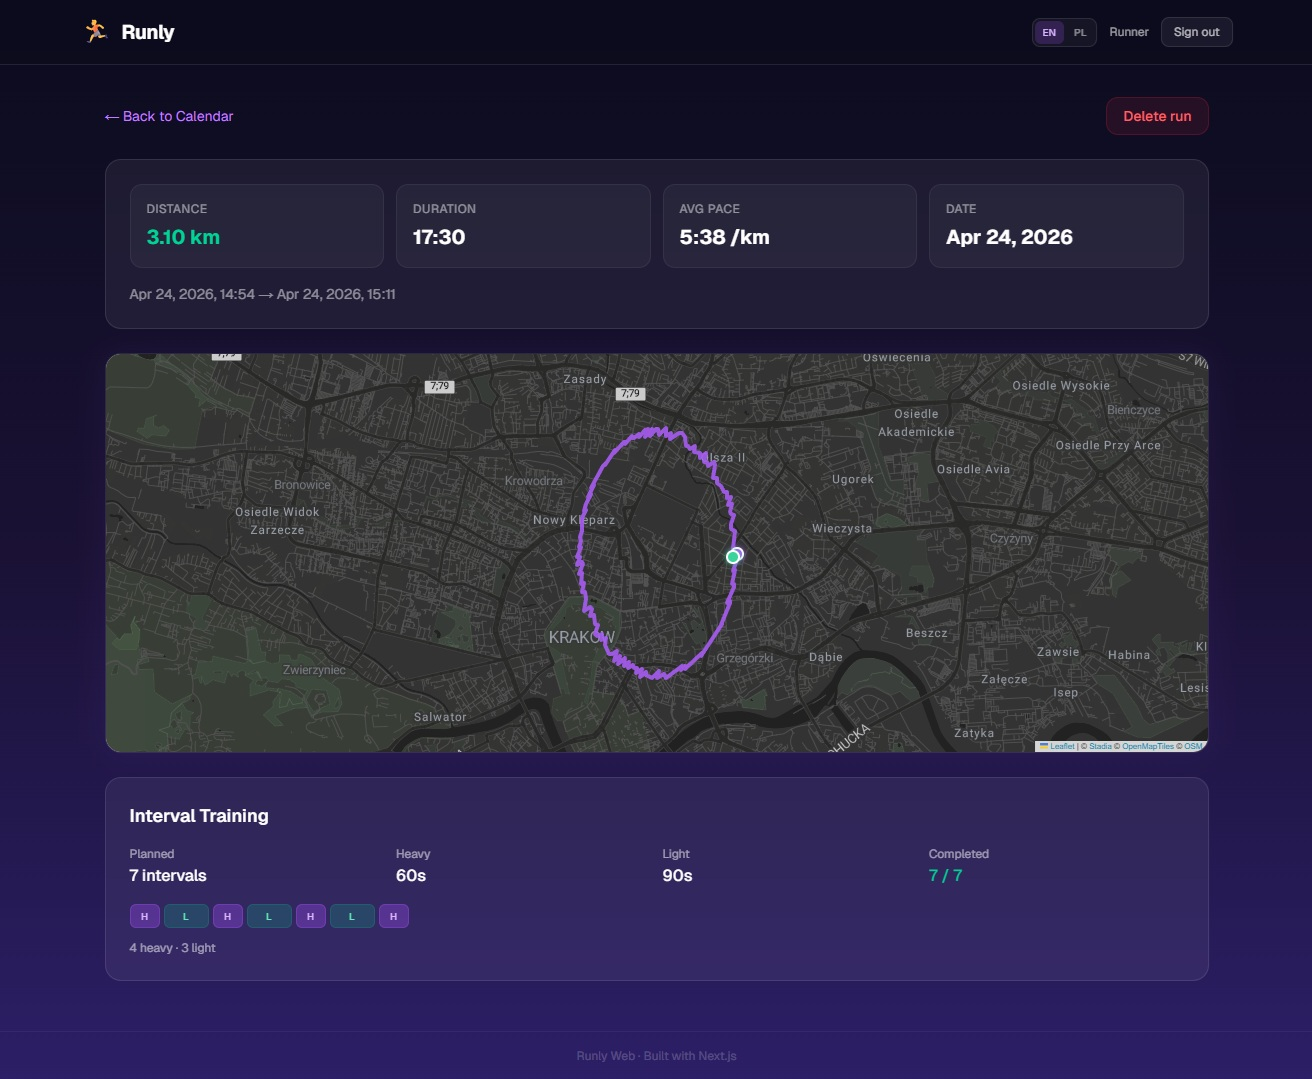
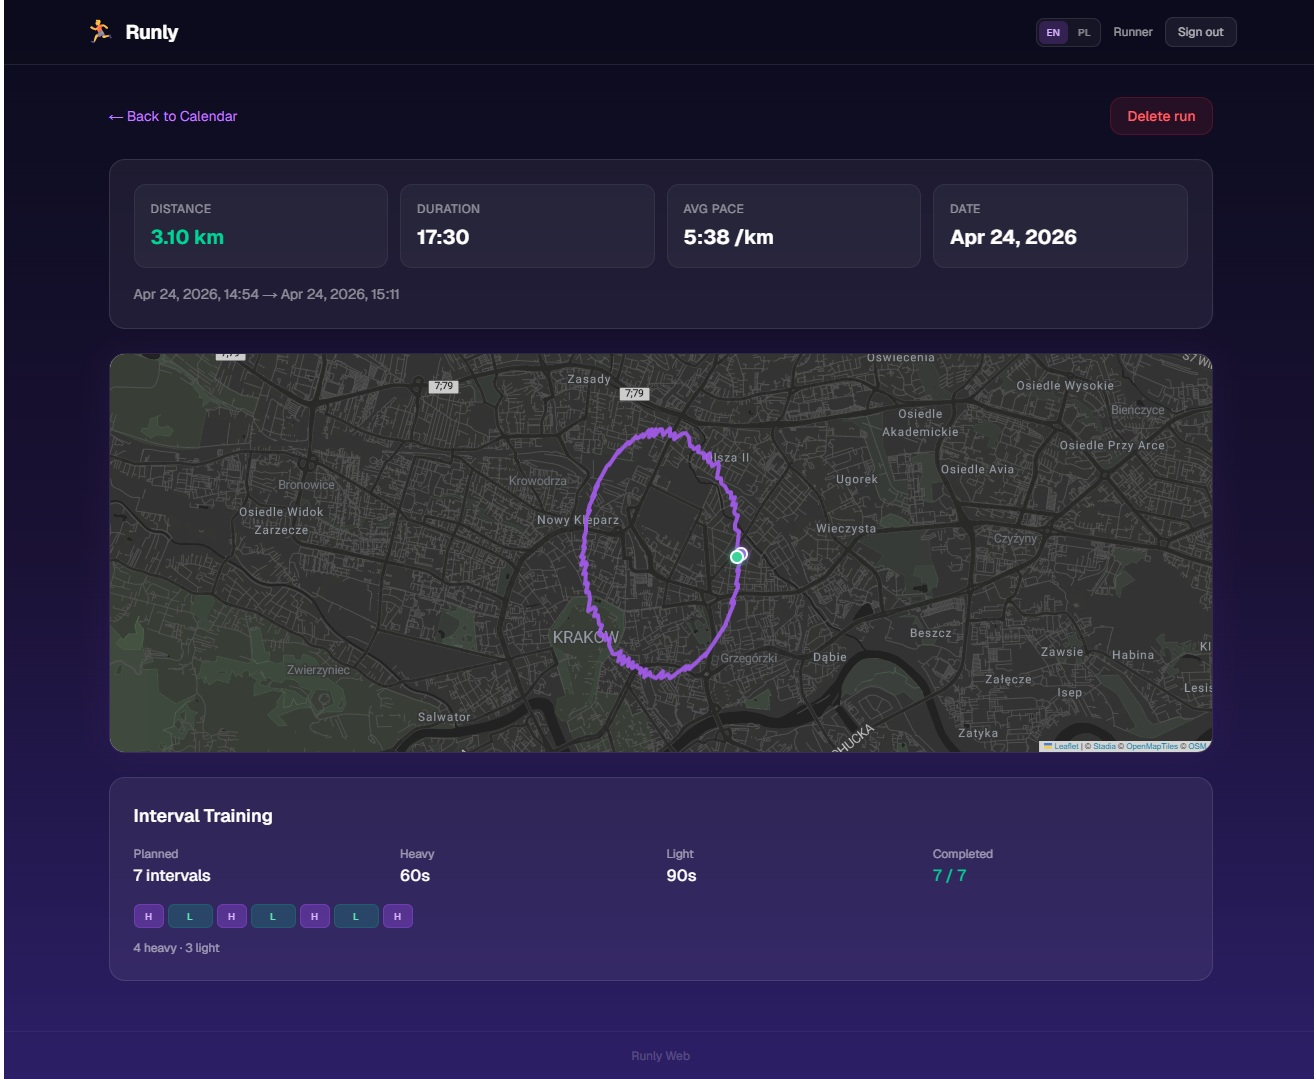
format, update docs

diff --git a/src/features/runs/components/RouteMap.tsx b/src/features/runs/components/RouteMap.tsx
@@ -62,7 +62,7 @@ export const RouteMap: FC<RouteMapProps> = ({ path }) => {
         className="w-full h-full"
         zoomControl={false}
       >
-        {/* Localhost lighter version  */}
+        {/* Localhost lighter version */}
         {/*<TileLayer*/}
         {/*  url="https://tiles.stadiamaps.com/tiles/alidade_smooth_dark/{z}/{x}/{y}{r}.png"*/}
         {/*  attribution='&copy; <a href="https://stadiamaps.com/">Stadia</a> &copy; <a href="https://openmaptiles.org/">OpenMapTiles</a> &copy; <a href="https://www.openstreetmap.org/copyright">OSM</a>'*/}
@@ -71,10 +71,7 @@ export const RouteMap: FC<RouteMapProps> = ({ path }) => {
           url="https://{s}.basemaps.cartocdn.com/dark_nolabels/{z}/{x}/{y}{r}.png"
           attribution='&copy; <a href="https://www.openstreetmap.org/copyright">OSM</a> &copy; <a href="https://carto.com/">CARTO</a>'
         />
-        <TileLayer
-          url="https://tile.openstreetmap.org/{z}/{x}/{y}.png"
-          opacity={0.15}
-        />
+        <TileLayer url="https://tile.openstreetmap.org/{z}/{x}/{y}.png" opacity={0.15} />
         <TileLayer
           url="https://{s}.basemaps.cartocdn.com/dark_only_labels/{z}/{x}/{y}{r}.png"
           opacity={0.85}

diff --git a/src/app/globals.css b/src/app/globals.css
@@ -3,8 +3,8 @@
 @theme inline {
   --color-background: #0b0b1e;
   --color-foreground: #ffffff;
-  --color-foreground-secondary: rgba(255, 255, 255, 0.70);
-  --color-foreground-muted: rgba(255, 255, 255, 0.50);
+  --color-foreground-secondary: rgba(255, 255, 255, 0.7);
+  --color-foreground-muted: rgba(255, 255, 255, 0.5);
 
   --color-runly-bg: #0b0b1e;
   --color-runly-accent: #a855f7;

diff --git a/src/features/calendar/components/MonthGrid.test.tsx b/src/features/calendar/components/MonthGrid.test.tsx
@@ -1,6 +1,6 @@
 import { describe, it, expect, vi } from 'vitest'
 import { render, screen } from '@testing-library/react'
-import {ReactNode} from "react";
+import { ReactNode } from 'react'
 
 import type { CalendarDay } from '../types'
 import { MonthGrid } from './MonthGrid'
@@ -203,4 +203,3 @@ describe('Given MonthGrid component', () => {
     })
   })
 })
-

diff --git a/src/features/calendar/index.ts b/src/features/calendar/index.ts
@@ -1,7 +1,2 @@
 export { CalendarNav, MonthGrid, DayRunsList } from './components'
-export {
-  getCalendarDays,
-  formatMonthYear,
-  getCurrentYearMonth,
-  getAdjacentMonths,
-} from './utils'
+export { getCalendarDays, formatMonthYear, getCurrentYearMonth, getAdjacentMonths } from './utils'

diff --git a/src/features/calendar/components/DayRunsList.test.tsx b/src/features/calendar/components/DayRunsList.test.tsx
@@ -1,4 +1,4 @@
-import {ReactNode} from "react";
+import { ReactNode } from 'react'
 import { describe, it, expect, vi } from 'vitest'
 import { render, screen } from '@testing-library/react'
 
@@ -73,4 +73,3 @@ describe('Given DayRunsList component', () => {
     })
   })
 })
-

diff --git a/src/features/calendar/components/DayCell.test.tsx b/src/features/calendar/components/DayCell.test.tsx
@@ -1,4 +1,4 @@
-import {ReactNode} from "react";
+import { ReactNode } from 'react'
 import { describe, it, expect, vi } from 'vitest'
 import { render, screen } from '@testing-library/react'
 
@@ -88,4 +88,3 @@ describe('Given DayCell component', () => {
     })
   })
 })
-

diff --git a/src/features/runs/components/RunStats.test.tsx b/src/features/runs/components/RunStats.test.tsx
@@ -61,4 +61,3 @@ describe('Given RunStats component', () => {
     })
   })
 })
-

diff --git a/src/features/runs/components/StatCard.test.tsx b/src/features/runs/components/StatCard.test.tsx
@@ -36,4 +36,3 @@ describe('Given StatCard component', () => {
     })
   })
 })
-

diff --git a/src/test/setup.ts b/src/test/setup.ts
@@ -1,2 +1,1 @@
 import '@testing-library/jest-dom'
-

diff --git a/README.md b/README.md
@@ -57,16 +57,16 @@ Open [http://localhost:3000](http://localhost:3000) — you'll be redirected to 
 
 ## Scripts
 
-| Command | Description |
-|---|---|
-| `npm run dev` | Start dev server |
-| `npm run build` | Production build |
-| `npm run start` | Start production server |
-| `npm run lint` | ESLint check |
-| `npm run format` | Prettier format all files |
+| Command                | Description               |
+| ---------------------- | ------------------------- |
+| `npm run dev`          | Start dev server          |
+| `npm run build`        | Production build          |
+| `npm run start`        | Start production server   |
+| `npm run lint`         | ESLint check              |
+| `npm run format`       | Prettier format all files |
 | `npm run format:check` | Prettier check formatting |
-| `npm run test` | Run tests (Vitest) |
-| `npm run test:watch` | Run tests in watch mode |
+| `npm run test`         | Run tests (Vitest)        |
+| `npm run test:watch`   | Run tests in watch mode   |
 
 ## Project Structure
 
@@ -99,13 +99,13 @@ src/
 
 ## API Endpoints
 
-| Method | Endpoint | Description |
-|---|---|---|
-| `GET` | `/api/runs` | List runs (optional `?month=YYYY-MM`) |
-| `GET` | `/api/runs/[id]` | Get single run with full data |
-| `POST` | `/api/runs` | Create a run (Zod validated) |
-| `DELETE` | `/api/runs/[id]` | Delete a run |
-| `POST` | `/api/register` | Register new user |
+| Method   | Endpoint         | Description                           |
+| -------- | ---------------- | ------------------------------------- |
+| `GET`    | `/api/runs`      | List runs (optional `?month=YYYY-MM`) |
+| `GET`    | `/api/runs/[id]` | Get single run with full data         |
+| `POST`   | `/api/runs`      | Create a run (Zod validated)          |
+| `DELETE` | `/api/runs/[id]` | Delete a run                          |
+| `POST`   | `/api/register`  | Register new user                     |
 
 ## License
 

diff --git a/docs/roadmap.md b/docs/roadmap.md
@@ -164,14 +164,14 @@
 
 **Goal:** App running on AWS, accessible via URL.
 
-- [ ] Create AWS account (if needed) + configure IAM
-- [ ] Set up AWS Amplify app (connect to GitHub repo)
-- [ ] Configure environment variables (`DATABASE_URL`, `NEXTAUTH_SECRET`)
-- [ ] Deploy — verify SSR works on Amplify
-- [ ] Set up PostgreSQL on Neon (or AWS RDS if preferred)
-- [ ] Run Prisma migrations in production
+- [x] Create AWS account (if needed) + configure IAM
+- [x] Set up AWS Amplify app (connect to GitHub repo)
+- [x] Configure environment variables (`DATABASE_URL`, `NEXTAUTH_SECRET`)
+- [x] Deploy — verify SSR works on Amplify
+- [x] Set up PostgreSQL on Neon (or AWS RDS if preferred)
+- [x] Run Prisma migrations in production
 - [ ] Custom domain (optional, via Route 53)
-- [ ] Verify: full flow works in production (calendar → run details)
+- [x] Verify: full flow works in production (calendar → run details)
 
 **What you'll learn:**
 
